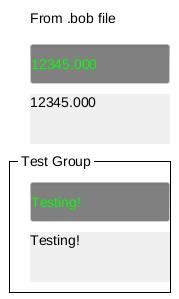
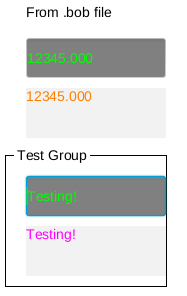
Added further tools for bob conversion
Now converts foreground, background colours, precision and avoids the style property (this may be handled differently at a later date)

Changed region(s): [[0.0, 0.4865, 0.9777, 1.0], [0.1397, 0.1216, 0.9497, 0.3649], [0.1397, 0.0, 0.6425, 0.0912]]

diff --git a/src/components/FromBob/fromBob.tsx b/src/components/FromBob/fromBob.tsx
@@ -48,6 +48,65 @@ const bobMacrosToMacroMap = (
   }
 };
 
+const bobColorsToColor = (color: {
+  _attributes: { name: string; red: string; blue: string; green: string };
+}): string => {
+  try {
+    return `rgb( ${color._attributes.red},  ${color._attributes.green}, ${color._attributes.blue})`;
+  } catch (e) {
+    log.error(`Could not convert color object`);
+    log.error(color);
+    return "";
+  }
+};
+
+const bobBackgroundColor = (
+  inputProps: UnknownPropsObject,
+  outputProps: UnknownPropsObject
+): void => {
+  outputProps.backgroundColor = bobColorsToColor(
+    inputProps.background_color.color
+  );
+};
+
+const bobForegroundColor = (
+  inputProps: UnknownPropsObject,
+  outputProps: UnknownPropsObject
+): void => {
+  outputProps.color = bobColorsToColor(inputProps.foreground_color.color);
+};
+
+const bobPrecisionToNumber = (
+  inputProps: UnknownPropsObject,
+  outputProps: UnknownPropsObject
+): void => {
+  try {
+    outputProps.precision = Number(inputProps.precision._text);
+  } catch (e) {
+    log.error(
+      `Could not convert precision of ${inputProps.precision} to a number`
+    );
+  }
+};
+
+const bobVisibleToBoolen = (
+  inputProps: UnknownPropsObject,
+  outputProps: UnknownPropsObject
+): void => {
+  try {
+    outputProps.visible = Boolean(inputProps.visible._text);
+  } catch (e) {
+    log.error(
+      `Could not convert visible property ${inputProps.visible} to a number`
+    );
+  }
+};
+
+const BobAvoidStyleProp = (
+  inputProps: UnknownPropsObject,
+  outputProps: UnknownPropsObject
+): void => {};
+
 const bobChildToWidgetChild = (
   bobChild: BobDescription,
   functionSubstitutions?: functionSubstitutionInterface,
@@ -197,7 +256,14 @@ export const WidgetFromBob = (
       // Convert the bob to widget description style object
       bobDescription = convertBobToWidgetDescription(
         bob,
-        { macros: bobMacrosToMacroMap },
+        {
+          macros: bobMacrosToMacroMap,
+          background_color: bobBackgroundColor,
+          foreground_color: bobForegroundColor,
+          precision: bobPrecisionToNumber,
+          visible: bobVisibleToBoolen,
+          style: BobAvoidStyleProp
+        },
         {
           pv_name: "pvName" // eslint-disable-line @typescript-eslint/camelcase
         }
